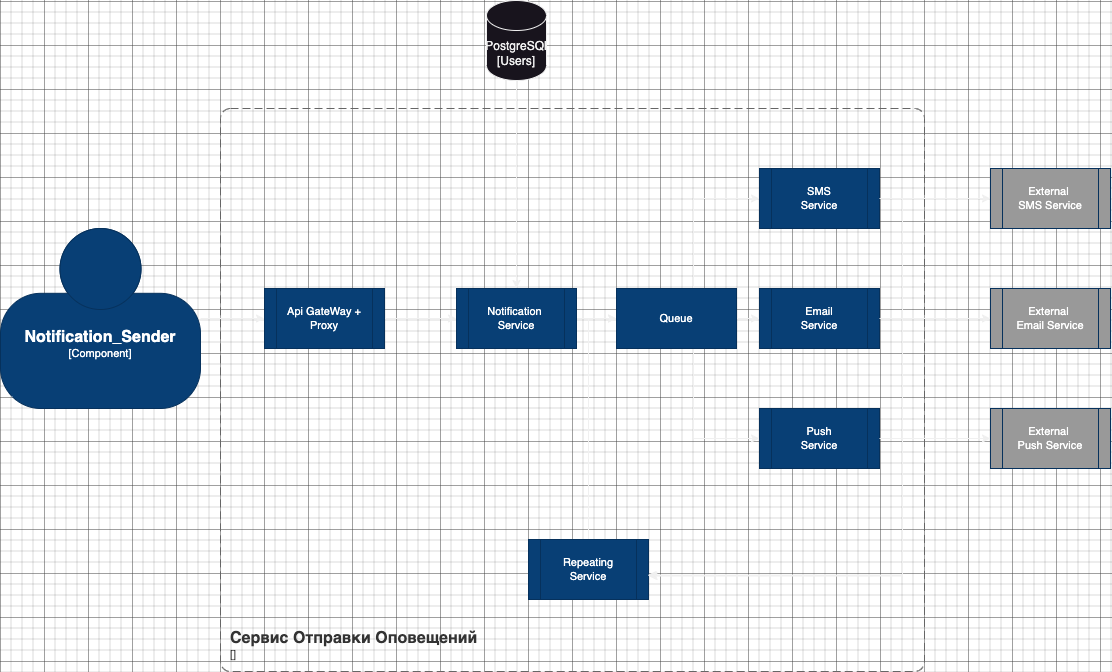
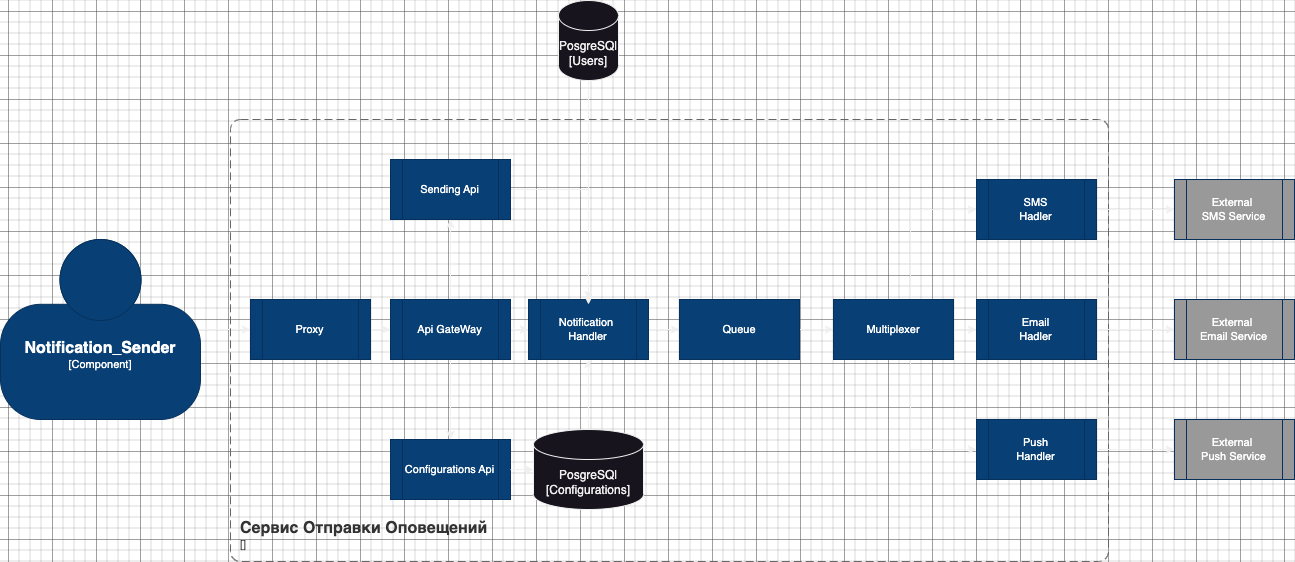
third attempt

diff --git a/notificator/software_architecture_document.md b/notificator/software_architecture_document.md
@@ -38,6 +38,24 @@
 Отчетные/аналитические данные:
    1. Логи/Метрики
 
+
+Были использованы следующие решения:
+- Proxy для дополнительной защиты и возможности обработки ошибок
+- API Gateway - микросервис, осуществляющий единую точку входа в сервис, балансировку нагрузки и валидацию запроса. 
+- Notification service - сервис обработки сообщений
+- SMS/EMAIL/Push Service - сервисы для валидации сообщений, и работы с отправкой SMS/EMAIL/Push. (3 отдельных) На этом уровне учитывается природу разных каналов связи, их потенциальные ограничения и пропускную способность (например, ограничение количества символов в СМС, стоимость СМС, лимиты пуш-очередей провайдеров, возможность попадания email в спам) 
+- Repeating Service - сервис повторной отправки сообщения. В него попадают не отправленные, валидируется то, сколько было "попыток" доставить сообщение и после повторно отправляется в очередь. Количество попыток ограничено 
+- Logging Service - логирование каждого контейнера
+- Multiplexer - возможность отправлять групповые сообщения в один канал
+
+Были использованы следующие базы данных:
+- Postgresql для хранения персональных знания о юзерах в захэшированном виде. 
+- Postgresql для хранения настроек отправляемых сообщений
+- Query bd (RabbitMQ) - для взаимодействия между Notification service и SMS/EMAIL/Push Service. Разделен на три топика, по одному на канал 
+- Graylog - Elastica, MongoDB
+
+Более подробные обоснования каждого решения в ADR: 
+
 #### ADR:
 
 | ID      | Дата       | Статус      | Участники     | Решения                                        |
@@ -48,6 +66,9 @@
 | ADR-005 | 2023-10-08 | Рассмотрено | Трошина Дарья | Использования сервиса повторной отправки при сбоях                                             |
 | ADR-007 | 2023-10-08 | Рассмотрено | Трошина Дарья | Логгирование для всех контейнеров                                           |
 | ADR-009 | 2023-10-09 | Рассмотрено | Трошина Дарья | Использование proxy                                         |
+| ADR-010 | 2023-10-14 | Рассмотрено | Трошина Дарья | Использование Multiplexer  |
+
+
 
 
 
@@ -60,9 +81,12 @@
 |---------|------------|-------------|---------------|-------------------------------------------------|
 | ADR-003 | 2023-10-08 | Рассмотрено | Трошина Дарья | Использовать PostgreSql                         |
 
-#### Компоненты SMS/EMAIL/Push Handler, Repeating Handler, Logging:
+#### Компоненты SMS/EMAIL/Push Service, Repeating Service, Logging:
 ![C3_2](static/с3_2.png)
 ![C2_logs](static/c2_2.png)
+
+На этом уровне учитывается природу разных каналов связи, их потенциальные ограничения и пропускную способность (например, ограничение количества символов в СМС, стоимость СМС, лимиты пуш-очередей провайдеров, возможность попадания email в спам) 
+благодаря разделению каналов отправки и добавления SMS/EMAIL/Push Service.
 
 | ID      | Дата       | Статус      | Участники     | Решения                                         |
 |---------|------------|-------------|---------------|-------------------------------------------------|
@@ -70,3 +94,16 @@
 | ADR-008 | 2023-10-08 | Рассмотрено | Трошина Дарья | Сохранения недошедших сообщений в логи с ограниченным временем хранения                        |
 
 Отдельной диаграммы для логов нет, так как было выбрано коробочное решение Graylog
+
+### Критерии оценки:
+- **Соответствие требованиям.**:
+  - реализация обособленной части системы для отправки оповещений о событиях по трем каналам связи SMS/EMAIL/Push
+  - подсистема должна принимать от пользователя системы настройки по каждому каналу связи для рассылки уведомлений
+  - взаимодействия с внешними для нашей системы подсистемами
+  -  предусмотрена возможность мультиплексирования
+  - учитывать природу разных каналов связи, их потенциальные ограничения и пропускную способность (например, ограничение количества символов в СМС, стоимость СМС, лимиты пуш-очередей провайдеров, возможность попадания email в спам
+- **Устойчивость** Провести тестирование системы с различными кейсами. Система не должна зависать, терять данные. Также провести нагрузочное тестирование.
+- **Производительность** Оценить проходимость сервиса для групповых и одиночных оповещений
+- **Соответствие бюджету и сроку**:
+  - оценить ресурсы требуемые на реализацию (время/деньги)
+  - оценить количество ресурсов требуемых на поддержку и сопровождение  (время/деньги)

diff --git a/notificator/ADR/adr-010.md b/notificator/ADR/adr-010.md
@@ -1,0 +1,24 @@
+#### ID: ADR-010
+
+#### Дата: 2023-10-14
+
+#### Статус: Рассмотрено
+
+#### Участники:
+* Трошина Дарья
+
+#### Решения:
+* Использование Multiplexer
+
+#### Контекст:
+*   Для возможности мультиплексирования (рассылки одного сообщения по всем каналам группе клиентов) и адресной отправки в каждый канал связи конкретным адресатам;
+https://www.geeksforgeeks.org/python-program-to-implement-24-multiplexer/
+* 
+#### Последствия:
+
+##### Положительные:
+* Возможность работы с групповыми отправками 
+
+##### Отрицательные:
+* Дополнительные ресурсы для раскатки, поддержки и сопровождения
+

diff --git a/notificator/ADR/adr-002.md b/notificator/ADR/adr-002.md
@@ -13,7 +13,7 @@
 #### Контекст:
 Для единой точки входа в сервис и балансировки нагрузки предлагается использовать Nginx.
 Поскольку у команды уже был работы с данной технологией.
-
+Документация по имплементации: https://www.nginx.com/blog/building-microservices-using-an-api-gateway/
 #### Последствия:
 
 ##### Положительные:

diff --git a/notificator/ADR/adr-009.md b/notificator/ADR/adr-009.md
@@ -1,4 +1,4 @@
-#### ID: ADR-001
+#### ID: ADR-009
 
 #### Дата: 2023-10-09
 
